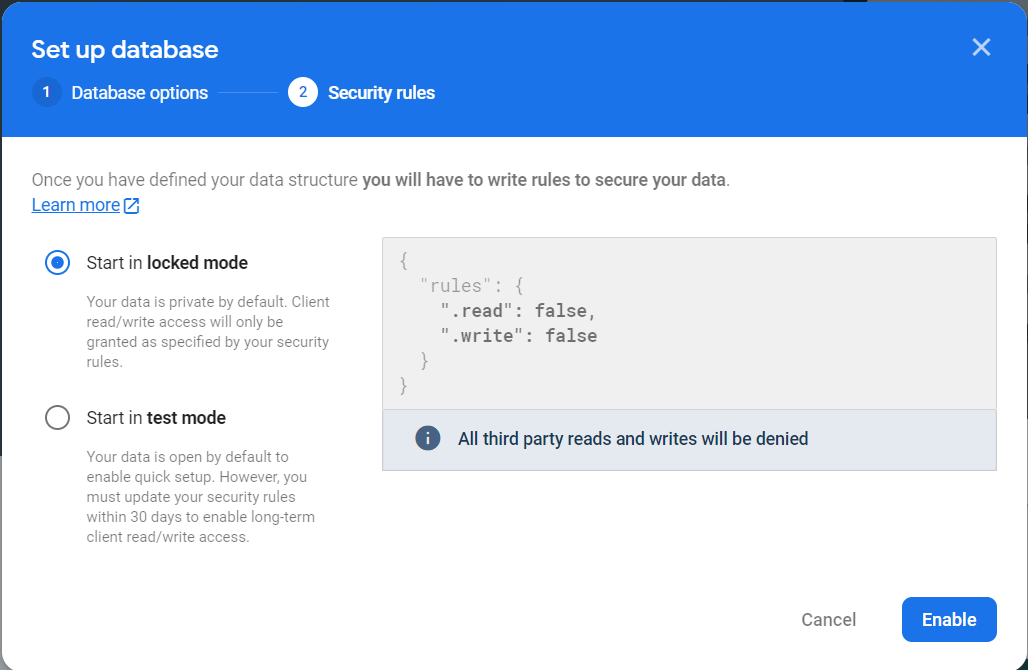
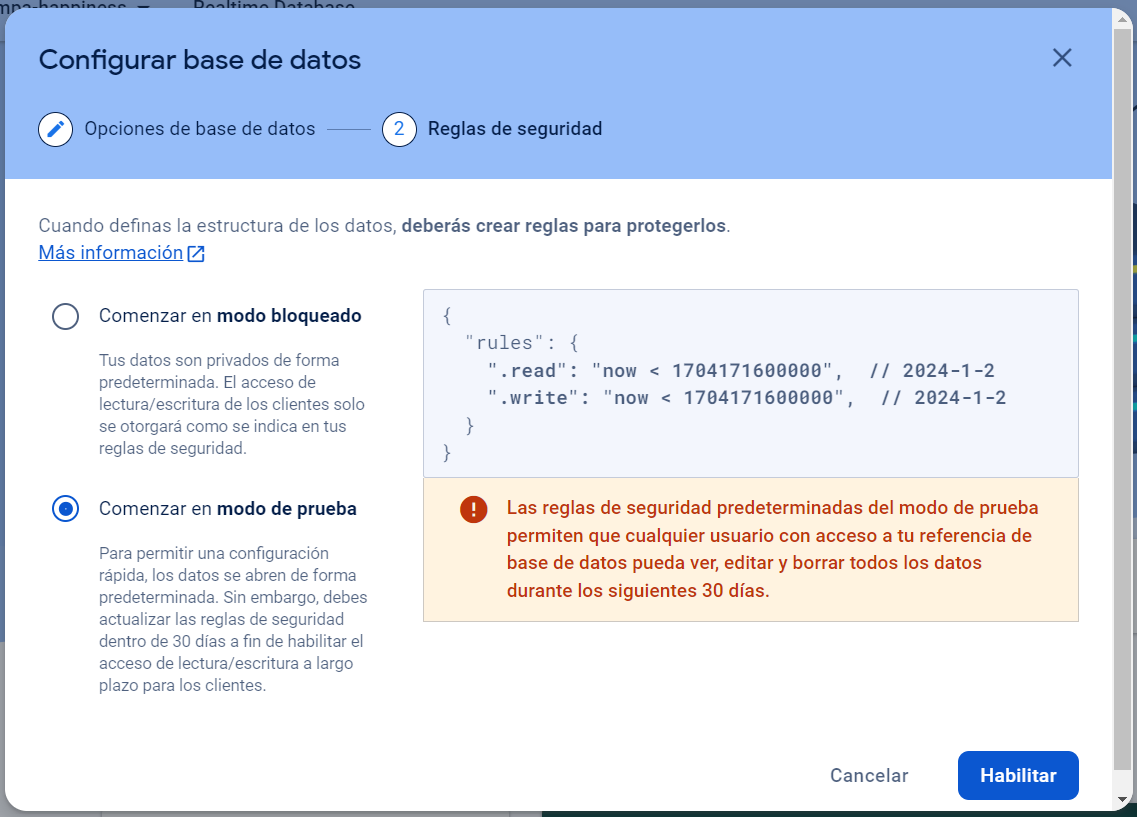
help!

diff --git a/tutoriales/firebase_realtime_database.md b/tutoriales/firebase_realtime_database.md
@@ -29,7 +29,7 @@ Firebase - Realtime Database
   <img width="550" src ="imagenes/firebase_realtime_init.png">
 </p>
 
-  + Durante el proceso de creación de la base de datos no relacional, se establece que de manera predeterminada ningún cliente EXTERNO puede leer o escribir sobre los datos. 
+  + Durante el proceso de creación de la base de datos no relacional, habilite el _test mode_ para la edición por 30 días. 
 
 <p align="center">
   <img width="550" src ="imagenes/firebase_setup1.png">
